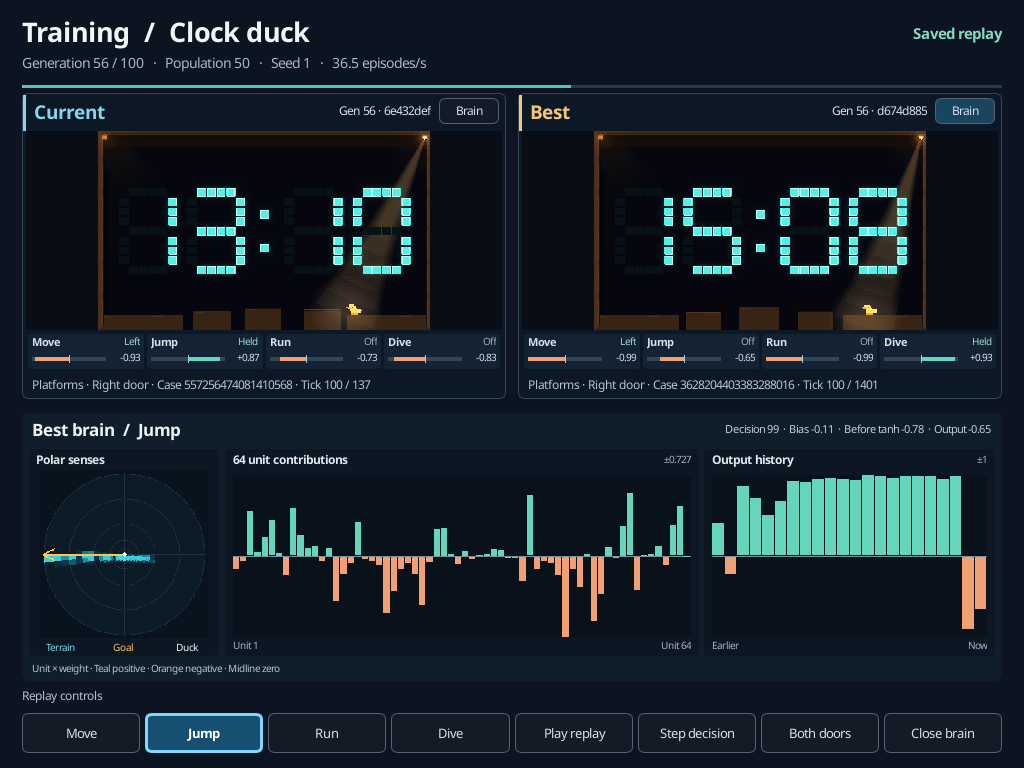
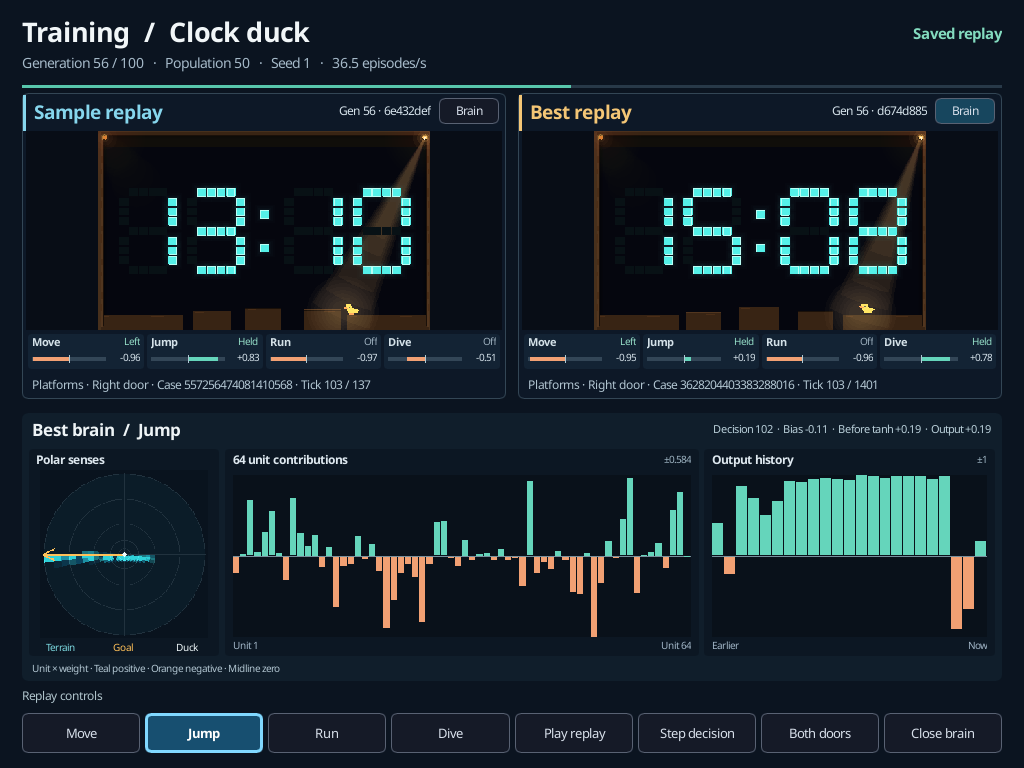
Hold Clock replays when training finishes and label their playback speed

diff --git a/crates/engine-client/src/duck_training/inspector.rs b/crates/engine-client/src/duck_training/inspector.rs
@@ -66,10 +66,22 @@ impl View {
                 self.previous = Instant::now();
                 w.set_duck_compare(self.compare.is_some());
             }
-            "training.duck.brain.pause" => {
+            "training.duck.brain.pause" | "training.duck.replay.toggle" => {
                 self.pending_step = false;
                 let speed = w.get_training_preview_speed();
-                if speed == 3 {
+                if w.get_duck_result() {
+                    let play = w.get_duck_replay_paused();
+                    if play && self.visible_replays_finished(w) {
+                        for p in self.playing.iter_mut().flatten() {
+                            p.reset();
+                        }
+                    }
+                    if play && speed == 3 {
+                        set_speed(w, self.resume_speed);
+                    }
+                    w.set_duck_review_playing(play);
+                    self.previous = Instant::now();
+                } else if speed == 3 {
                     set_speed(w, self.resume_speed);
                 } else {
                     self.resume_speed = speed;
@@ -77,10 +89,14 @@ impl View {
                 }
             }
             "training.duck.brain.step" => {
-                if w.get_training_preview_speed() != 3 {
-                    self.resume_speed = w.get_training_preview_speed();
+                if w.get_duck_result() {
+                    w.set_duck_review_playing(false);
+                } else {
+                    if w.get_training_preview_speed() != 3 {
+                        self.resume_speed = w.get_training_preview_speed();
+                    }
+                    set_speed(w, 3);
                 }
-                set_speed(w, 3);
                 self.pending_step = true;
             }
             name => {
@@ -93,6 +109,15 @@ impl View {
             }
         }
         Ok(())
+    }
+
+    fn visible_replays_finished(&self, w: &MainWindow) -> bool {
+        let selected = usize::from(w.get_training_preview_mode() == 2);
+        self.playing
+            .iter()
+            .enumerate()
+            .filter(|(i, _)| self.compare.is_some() || w.get_duck_wide() || *i == selected)
+            .all(|(_, p)| p.as_ref().is_some_and(Playback::terminal))
     }
 
     pub(super) fn play(&mut self, w: &MainWindow) {
@@ -163,7 +188,11 @@ impl View {
             w.set_duck_signal(Default::default());
             w.set_duck_polar(Default::default());
         }
-        let speed = crate::training_preview::speed(w.get_training_preview_speed());
+        let speed = if w.get_duck_replay_paused() {
+            0.
+        } else {
+            crate::training_preview::speed(w.get_training_preview_speed())
+        };
         let manual = self.pending_step;
         let pair_done = paired
             && self
@@ -175,7 +204,7 @@ impl View {
                 continue;
             };
             if (paired && pair_done || !paired && visible[i] && player.terminal())
-                && (manual || speed > 0.)
+                && (manual || (speed > 0. && !w.get_duck_result()))
             {
                 player.terminal_time += elapsed;
                 if manual || player.terminal_time >= Duration::from_secs(2) {
@@ -228,6 +257,9 @@ impl View {
             }
         }
 
+        if w.get_duck_result() && w.get_duck_review_playing() && self.visible_replays_finished(w) {
+            w.set_duck_review_playing(false);
+        }
         for (i, slot) in self.playing.iter_mut().enumerate() {
             if !visible[i] {
                 continue;

diff --git a/crates/engine-client/src/duck_training/navigation.rs b/crates/engine-client/src/duck_training/navigation.rs
@@ -38,7 +38,7 @@ pub(crate) fn inventory(w: &MainWindow) -> Vec<UiControl> {
             .with_value(w.get_training_snapshot().to_string()),
         UiControl::new("training.status", "Run state", false)
             .with_value(w.get_training_status_code().to_string()),
-        UiControl::new("training.duck.current", "Current replay", false).with_value(format!(
+        UiControl::new("training.duck.current", "Sample replay", false).with_value(format!(
             "{} · {}",
             w.get_duck_current_id(),
             w.get_duck_current_details()
@@ -57,8 +57,8 @@ pub(crate) fn inventory(w: &MainWindow) -> Vec<UiControl> {
         ("training.stop", "Save and stop", w.get_training_can_stop()),
         ("training.new", "New run", w.get_training_can_start()),
         ("training.back", "Back", true),
-        ("training.preview.current", "Current", true),
-        ("training.preview.best", "Best", true),
+        ("training.preview.current", "Sample replay", true),
+        ("training.preview.best", "Best replay", true),
         ("training.duck.term", "Chart term", true),
         ("training.duck.steer", "Generation settings", true),
         ("training.preview.speed", "Replay speed", true),
@@ -72,7 +72,7 @@ pub(crate) fn inventory(w: &MainWindow) -> Vec<UiControl> {
             if w.get_duck_compare() {
                 "Inspect left-door replay"
             } else {
-                "Inspect current brain"
+                "Inspect sample brain"
             },
             !w.get_duck_steering(),
         ),
@@ -87,6 +87,17 @@ pub(crate) fn inventory(w: &MainWindow) -> Vec<UiControl> {
         ),
     ] {
         controls.push(UiControl::new(id, label, enabled));
+    }
+    if w.get_duck_result() && !w.get_duck_steering() {
+        controls.push(UiControl::new(
+            "training.duck.replay.toggle",
+            if w.get_duck_replay_paused() {
+                "Play replay"
+            } else {
+                "Pause replay"
+            },
+            w.get_training_points().row_count() > 0,
+        ));
     }
     if !w.get_duck_steering() && w.get_duck_inspect() >= 0 {
         for (id, label) in BRAIN_ACTIONS {
@@ -140,6 +151,8 @@ pub(crate) fn selected_id(w: &MainWindow) -> &'static str {
     };
     if action == 0 && w.get_training_can_resume() {
         "training.resume"
+    } else if action == 1 && w.get_duck_result() {
+        "training.duck.replay.toggle"
     } else {
         ACTIONS.get(action).copied().unwrap_or("training.back")
     }

diff --git a/crates/engine-client/src/keyboard_tests/duck_training.rs b/crates/engine-client/src/keyboard_tests/duck_training.rs
@@ -48,13 +48,36 @@ fn steering_a_clock_run_updates_the_next_scored_generation_and_preserves_the_rep
     activate("training.preview.best");
     wait(&|| window.get_duck_best_frame().size().width > 0);
     assert!(window.get_duck_best_details().contains("Tick "));
+    assert!(
+        window
+            .get_training_worker_status()
+            .contains("0 active workers")
+    );
+    assert!(window.get_duck_replay_paused());
+    let frozen = window.get_duck_best_details();
+    let until = std::time::Instant::now() + Duration::from_millis(120);
+    wait(&|| std::time::Instant::now() >= until);
+    assert_eq!(window.get_duck_best_details(), frozen);
+    activate("training.preview.speed");
+    activate("training.preview.speed");
+    assert!(window.get_duck_replay_paused());
+    activate("training.duck.replay.toggle");
+    wait(&|| window.get_duck_best_details() != frozen);
+    wait(&|| window.get_duck_replay_paused());
+    let terminal = window.get_duck_best_details();
+    assert!(
+        ["Exited", "Fell", "TimedOut"]
+            .iter()
+            .any(|s| terminal.ends_with(s))
+    );
+    activate("training.duck.replay.toggle");
+    wait(&|| window.get_duck_best_details() != terminal);
+    assert_eq!(window.get_training_status_code(), "completed");
     assert_eq!(window.get_training_points().row_count(), 2);
     assert_eq!(window.get_duck_terms().row_count(), 5);
     let output = std::env::var_os("SPACEWARS_PREVIEW_ARTIFACTS").map(std::path::PathBuf::from);
     if let Some(path) = &output {
         std::fs::create_dir_all(path).unwrap();
-        activate("training.preview.speed");
-        activate("training.preview.speed");
     }
     for (width, height, chart_x, chart_y) in [(800, 480, 739., 84.), (1024, 768, 457., 482.)] {
         window
@@ -80,7 +103,14 @@ fn steering_a_clock_run_updates_the_next_scored_generation_and_preserves_the_rep
                     return false;
                 };
                 now.parse::<u64>().unwrap_or(0)
-                    >= (total.parse::<u64>().unwrap_or(u64::MAX) / 2).clamp(1, 150)
+                    >= (total
+                        .split_whitespace()
+                        .next()
+                        .unwrap()
+                        .parse::<u64>()
+                        .unwrap()
+                        / 2)
+                    .clamp(1, 150)
             };
             wait(&|| {
                 in_play(window.get_duck_best_details())

diff --git a/crates/engine-client/src/duck_training.rs b/crates/engine-client/src/duck_training.rs
@@ -242,6 +242,7 @@ impl Client {
     pub(super) fn command(&self, w: &MainWindow, id: &str) -> Result<(), String> {
         let mut view = self.view.borrow_mut();
         if id.starts_with("training.duck.brain.")
+            || id == "training.duck.replay.toggle"
             || matches!(id, "training.preview.current" | "training.preview.best")
         {
             view.brain_command(w, id)?;
@@ -350,6 +351,7 @@ impl View {
         self.workers = None;
         self.archive_doors = None;
         self.last_progress.clear();
+        w.set_duck_review_playing(false);
         w.set_duck_compare(false);
         w.set_duck_inspect(-1);
         w.set_duck_action(1);
@@ -460,8 +462,15 @@ impl View {
                 self.error = error;
             }
             Event::Paused => self.state = State::Paused,
-            Event::Stopped => self.state = State::Stopped,
-            Event::Complete => self.state = State::Completed,
+            Event::Stopped | Event::Complete => {
+                self.state = if matches!(event, Event::Complete) {
+                    State::Completed
+                } else {
+                    State::Stopped
+                };
+                self.pending_step = false;
+                w.set_duck_review_playing(false);
+            }
             Event::Failed(error) => {
                 self.state = State::Failed;
                 self.error = error;
@@ -509,7 +518,12 @@ impl View {
         );
         if self.workers.is_none() {
             w.set_training_worker_status(
-                if self.rate > 0.0 {
+                if matches!(self.state, State::Completed | State::Stopped) {
+                    format!(
+                        "0 active workers · Last generation {:.1} visits/s",
+                        self.rate
+                    )
+                } else if self.rate > 0.0 {
                     format!("{:.1} episodes/s", self.rate)
                 } else {
                     "Evaluating cases".into()

diff --git a/docs/design/general-trainer.md b/docs/design/general-trainer.md
@@ -230,14 +230,27 @@ ordered score terms in both generations.
 
 ## Watching and steering
 
-Put the duck alongside ship arrivals in Training. **Current** follows a
-sampled candidate and case. **Best** replays the saved champion on its scored
-case, with its original settings. Label both with candidate, generation,
-case and playback tick. Render the real Clock in both views. Use independent
-replay state so slowing, pinning or dropping preview frames cannot affect
-fitness or worker scheduling.
+The Clock workers score independent candidate–case visits in parallel, stepping
+physics as fast as the available CPU allows. **Sample replay** shows one visit
+after its worker has scored it. **Best replay** shows the winning genome's best
+visit from a finished generation. The two replays use the original settings
+and controls. At **Replay 1×** the display targets 60 physics ticks per second.
+Changing replay speed leaves worker scheduling and fitness unchanged.
 
-Show both views side by side when space permits and provide Current/Best tabs
+DirtSim's Current pane streams frames from an evaluation while it is being
+scored. Its Best pane runs a separate champion simulation paced by wall time.
+The Clock sample uses a finished visit so the operator can pause and step the
+exact controls that earned the score.
+[DirtSim evaluation worker](https://github.com/aortez/dirtsim/blob/0db5f847e7c059b807eb982702ba26fe9f004bf9/apps/src/server/evolution/EvaluationExecutor.cpp#L318-L361) ·
+[DirtSim best playback](https://github.com/aortez/dirtsim/blob/0db5f847e7c059b807eb982702ba26fe9f004bf9/apps/src/server/states/Evolution.cpp#L2172-L2190)
+
+When training completes or is saved and stopped, both panes hold still.
+**Play replay** plays the visible visits once. Their terminal frames stay on
+screen until another playback is requested. Opening a saved replay directly
+from the command line starts playback immediately.
+[Completed four-generation run](../images/training/clock-duck-completed-1024x768.png)
+
+Show both views side by side when space permits and provide replay tabs
 at 800×480. Keep progress, the fitness history, best score by term, and
 steering controls reachable in either layout. Show pending settings with their
 effective generation. The view uses the runner's edit and lifecycle commands.
@@ -278,7 +291,7 @@ decisions and the signed contribution of each final hidden unit. Each of the
 Adding the head bias gives the displayed pre-activation. Applying tanh gives
 the output passed to the creature decoder.
 
-**Both doors** takes the genome and course from the **Best** pane and runs it
+**Both doors** takes the genome and course from the **Best replay** pane and runs it
 from each entrance with the same seed and clock reading. The two visits advance
 together. The scored side uses the recorded controls, and the opposite side
 computes its own controls from its observations. Switch panes to inspect either
